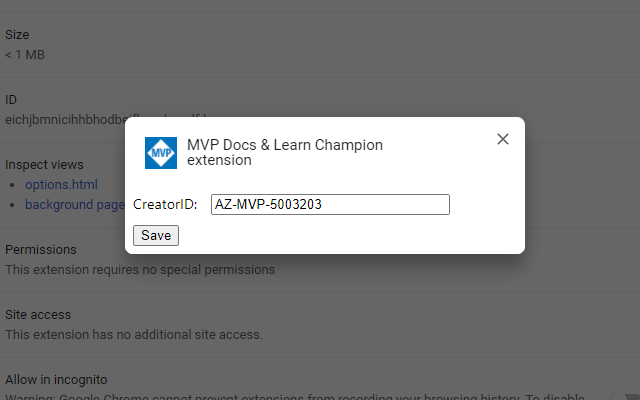
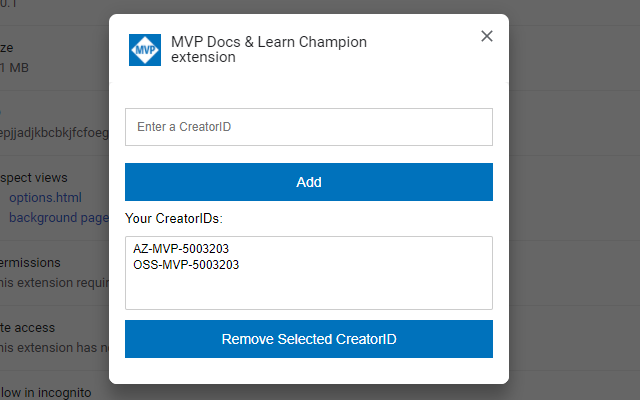
added screenshots

diff --git a/README.md b/README.md
@@ -11,6 +11,6 @@ It also ensures that the CreatorID is correctly added to the URL, so you don't h
 
 ## Options
 
-After you have installed the extension, please specify your CreateorID within the extension options:
+After you have installed the extension, please specify your CreateorIDs within the extension options:
 
 ![Extension Options](./assets/screenshot_options.png)
